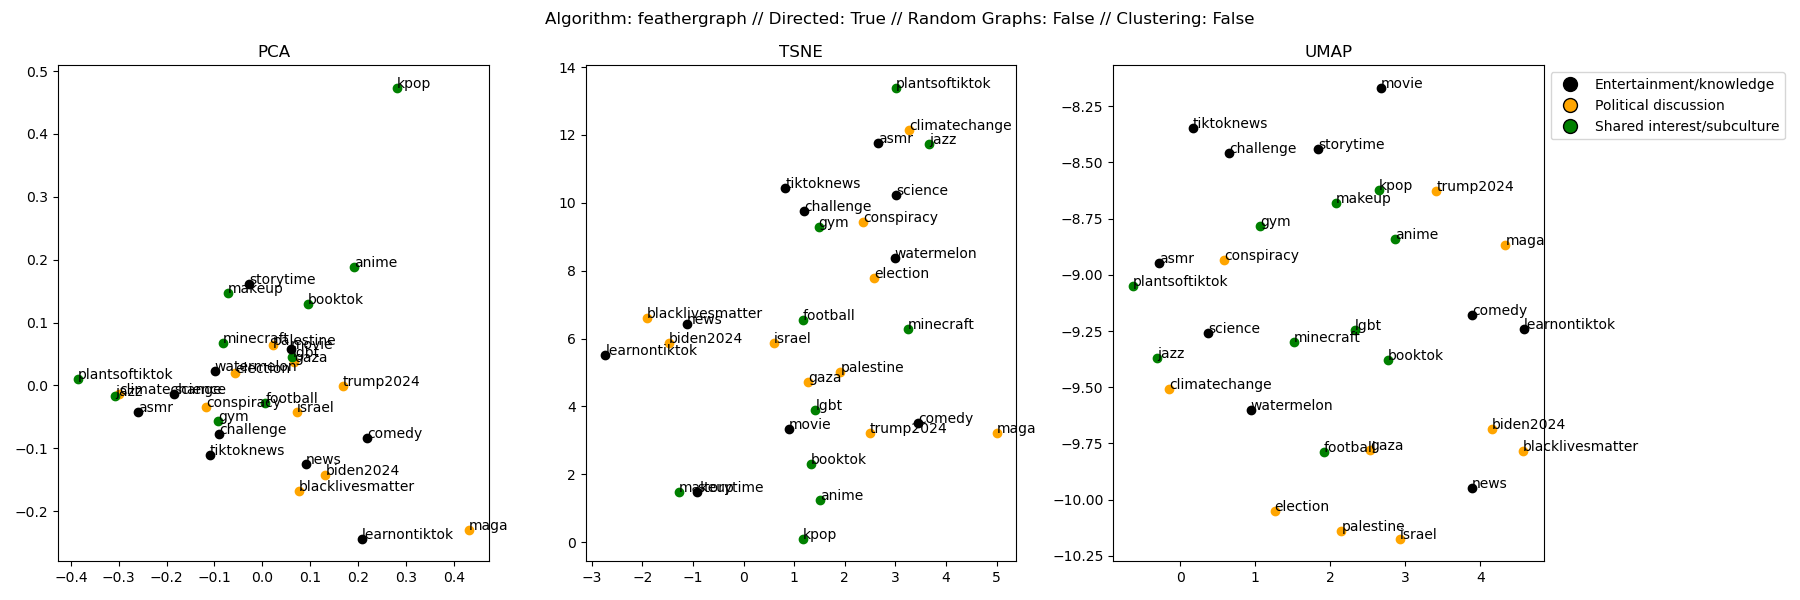
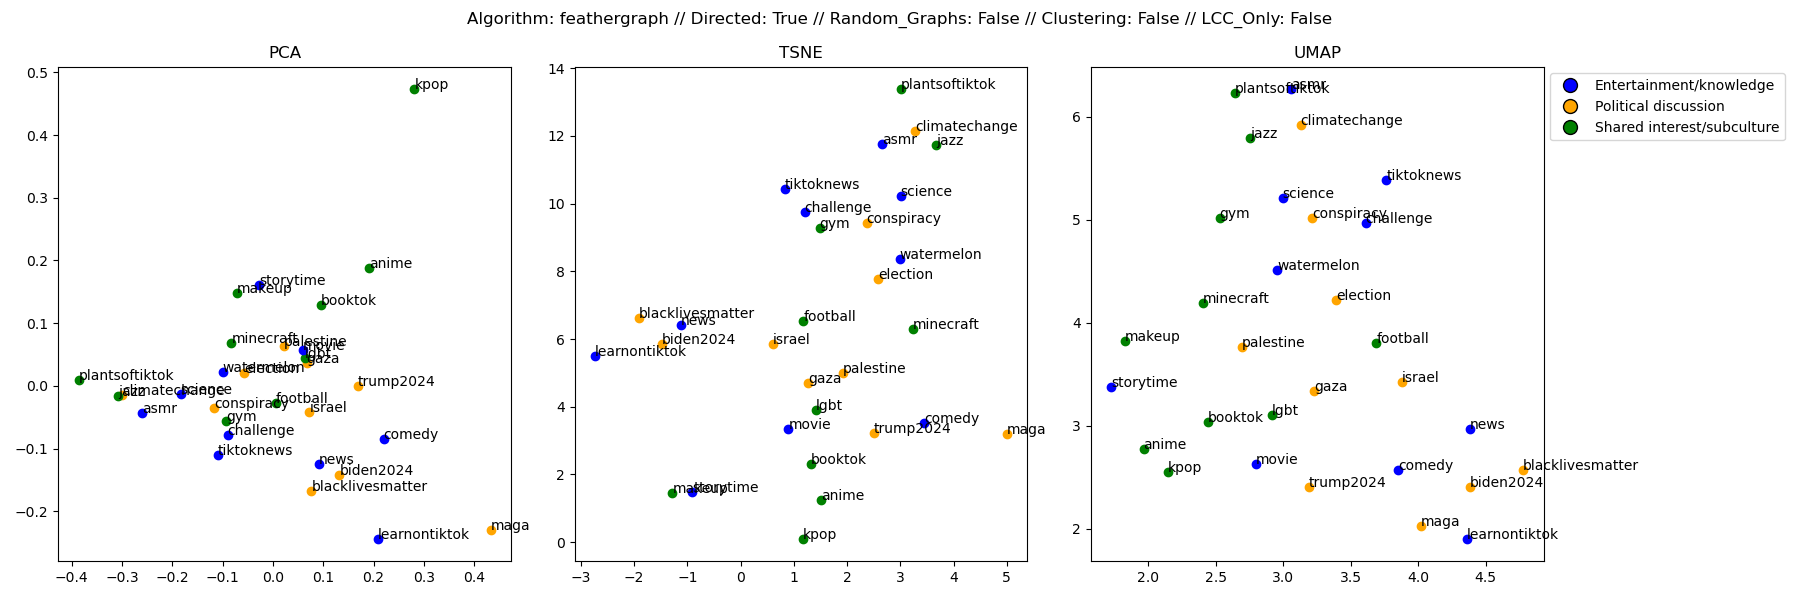
updated embed script and produced updated figures

diff --git a/src/graph_embed.py b/src/graph_embed.py
@@ -210,9 +210,9 @@ def plot_embeddings(embeddings, names, algorithm, cluster_labels, save_plot, dir
     used_arguments = [
         f'Algorithm: {algorithm}',
         f'Directed: {directed}',
-        f'Random Graphs: {add_random}',
+        f'Random_Graphs: {add_random}',
         f'Clustering: {cluster}',
-        f'LCC Only: {lcc_only}'
+        f'LCC_Only: {lcc_only}'
     ]
     plot_title = ' // '.join(used_arguments)
     plt.suptitle(plot_title)
